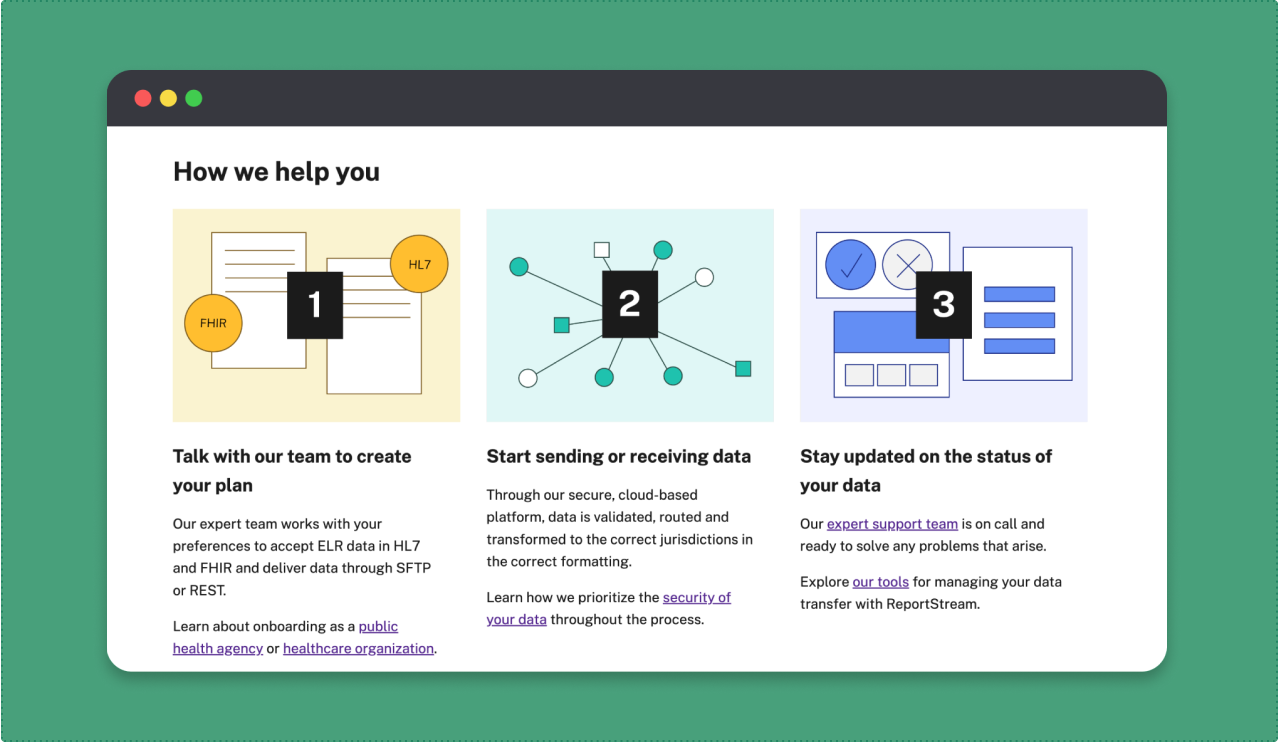
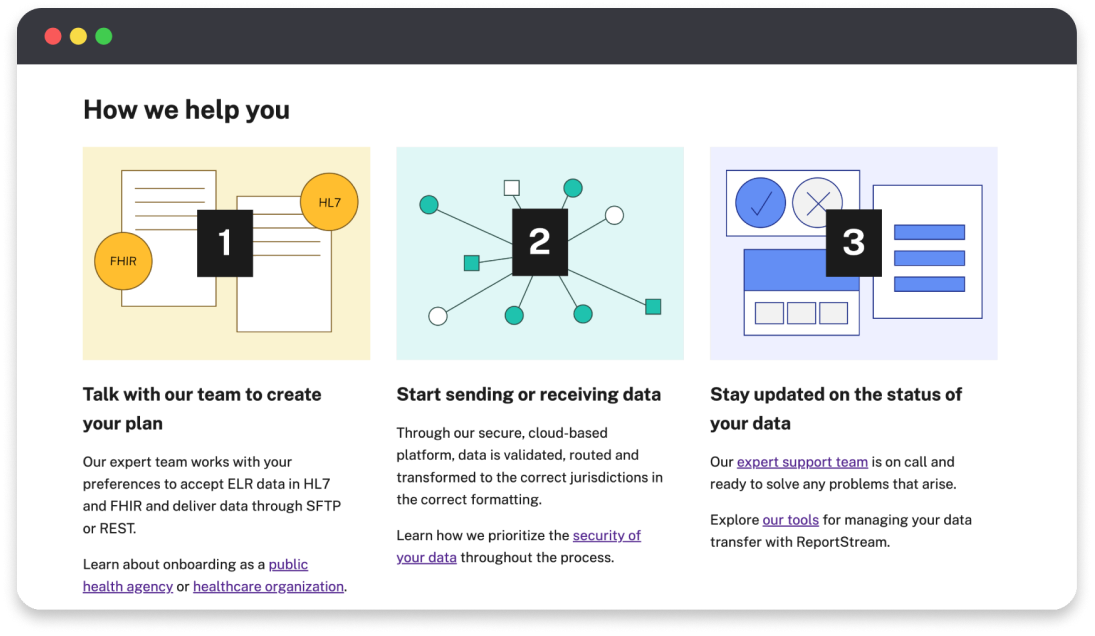
update screenshot background colors via css

diff --git a/src/assets/styles/_page.scss b/src/assets/styles/_page.scss
@@ -197,21 +197,42 @@
       }
     }
   
-    .org-screenshot {
-      padding-left: 16px;
-      width: 100%;
+
+    .our-work-screenshot-wrapper {
+      align-items: center;
+      justify-content: center;
+
+      .org-screenshot {
+        height: auto;
+        padding: 16px;
+        width: 90%;
+        max-width: 548px;
   
-      @include tablet-media-query {
-        padding-left: 0;
+        @include tablet-media-query {
+          padding-left: 0;
+        }
+  
+        @include mobile-media-query {
+          padding-left: 0;
+        }
       }
-  
-      @include mobile-media-query {
-        padding-left: 0;
+
+      &.cdc-screenshot {
+        background-color: #549371;
+      }
+
+      &.cms-screenshot {
+        background-color: #BFD4BF;
+      }
+
+      &.va-screenshot {
+        background-color: $dark-linen;
       }
     }
 
     &__content {
       padding-right: 16px;
     }
+
   }
 }
